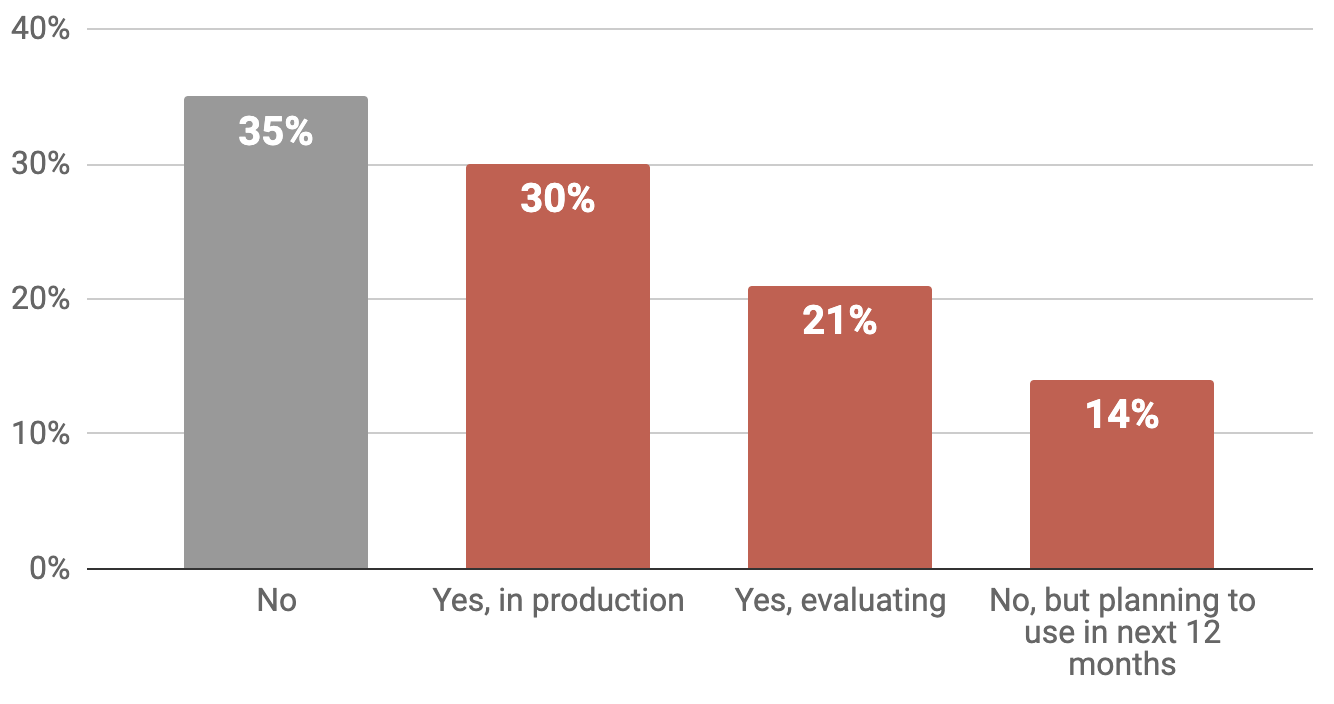
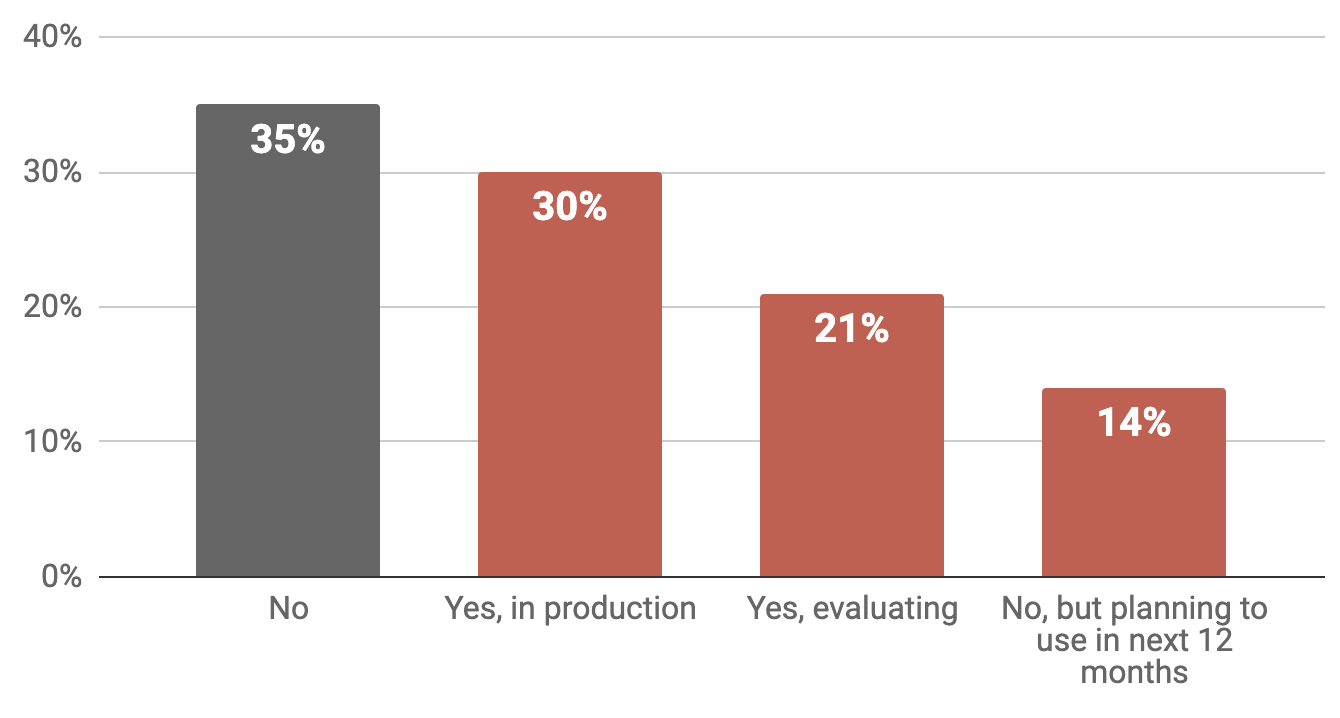
Change

Changed region(s): [[0.0, 0.125, 0.9835, 0.9688], [0.0, 0.0312, 0.9835, 0.0625], [0.0, 0.5938, 0.0615, 0.6562]]

diff --git a/serverless.html b/serverless.html
@@ -276,21 +276,34 @@
             Assessing risk in the open-source world
           </div>
           <div class="regular-lg pb-4">
-            We were building on open-source technology that had already survived contact with reality. That shaped how we thought about risk:
+            We were building on open-source technology that had already survived contact with reality. That shaped how we thought about risk.
           </div>
-          <div class="regular-lg pb-5">
+          <div class="regular-lg pb-4">
             <div class="bold-5">Demand</div>
-              There is known demand for serverless technology. According to the 
+              Demand for serverless technology is well-established and growing. In particular, demand is largely for hosted serverless solutions, which is our market.
+            </div>
+            <div class="regular-lg pb-5">
+               According to the 
               <a style="color:#0066cc; text-decoration: underline;" href="https://www.cncf.io/wp-content/uploads/2020/11/CNCF_Survey_Report_2020.pdf">
               2020 Cloud Native Computing Foundation (CNCF) survey</a>, 30% of organizations polled have production apps running on serverless and another 35% are considering it. The CNCF "fully expect this growth to continue".
+              In addition, 82% of organizations who are using serverless are either using hosted serverless solutions.
           </div>
         </div>
       </div>
     </div>
-    <div class="container-fluid-content-02" style="max-width: 600px; padding-bottom:0px;">
+    <div class="container-fluid-content-02" style="max-width: 1200px; padding-bottom:0px;">
       <div class="row p-0 m-0">
         <div class="col-md pb-5">
+          <div class="regular-lg pb-4" style="text-align: center; color:#999; font-style: italic;">
+            Is your organization using serverless?
+          </div>
           <img src="images/serverless-03-01.png" class="img-fluid" alt="image">
+        </div>
+        <div class="col-md pb-5">
+          <div class="regular-lg pb-4" style="text-align: center; color:#999; font-style: italic;">
+            How is your organization using serverless technology?
+          </div>
+          <img src="images/serverless-03-02.png" class="img-fluid" alt="image">
         </div>
       </div>
     </div>
@@ -298,6 +311,7 @@
     <div class="container-fluid-content-02" style="max-width: 600px; padding-bottom:120px;">
       <div class="row p-0 m-0">
         <div class="col-md">
+
           <div class="regular-lg pb-0">
             <div class="bold-5">Validation of value</div>
             Open-source serverless functionality has been validated in the marketplace. It demonstrably solves well-known IT problems (see benefits of serverless below). 

diff --git a/index.html b/index.html
@@ -82,7 +82,7 @@
 					<div class="pb-2" style="font-size:0.66em; font-weight:200; color:#666;">Case Study</div>
 					<h4 class="section-card-header">Pivotal<br>HealthWatch</h4>
 					<div class="" style="font-size: 0.66em; line-height: 1.5;">
-						From product validation through launch, I led design for HealthWatch, an app for monitoring the health of Pivotal’s cloud operating system. The product gained one-hundred percent traction with the 30+ Fortune 500 customers we tracked. 
+						Over a period spanning product validation through launch, I led design for HealthWatch, an app for monitoring the health of Pivotal’s cloud operating system. The product gained one-hundred percent traction with the 30+ Fortune 500 customers we tracked. 
 					</div>
 					<div class="mt-auto">
 						<a href="healthwatch.html" tabindex="-1" role="button" 
@@ -102,7 +102,7 @@
 					<div class="pb-2" style="font-size:0.66em; font-weight:200; color:#666;">Case Study</div>
 					<h4 class="section-card-header">VMWare Cloud Native<br>Runtimes</h4>
 					<div class="" style="font-size: 0.66em; line-height: 1.5;">
-						I was design lead for an effort to build a proprietary GUI on top of a popular open-source developer utility. A compact, six-week effort, this project involved orchestrating engineer-driven ideation, rapid prototyping, and contiuous feedback.
+						I was design lead for a compact, six-week effort to build a proprietary GUI on top of a popular open-source developer utility. This project involved orchestrating engineer-driven ideation and rapid prototyping with contiuous feedback.
 					</div>
 					<div class="mt-auto">
 						<a href="serverless.html" tabindex="-1" role="button" 
